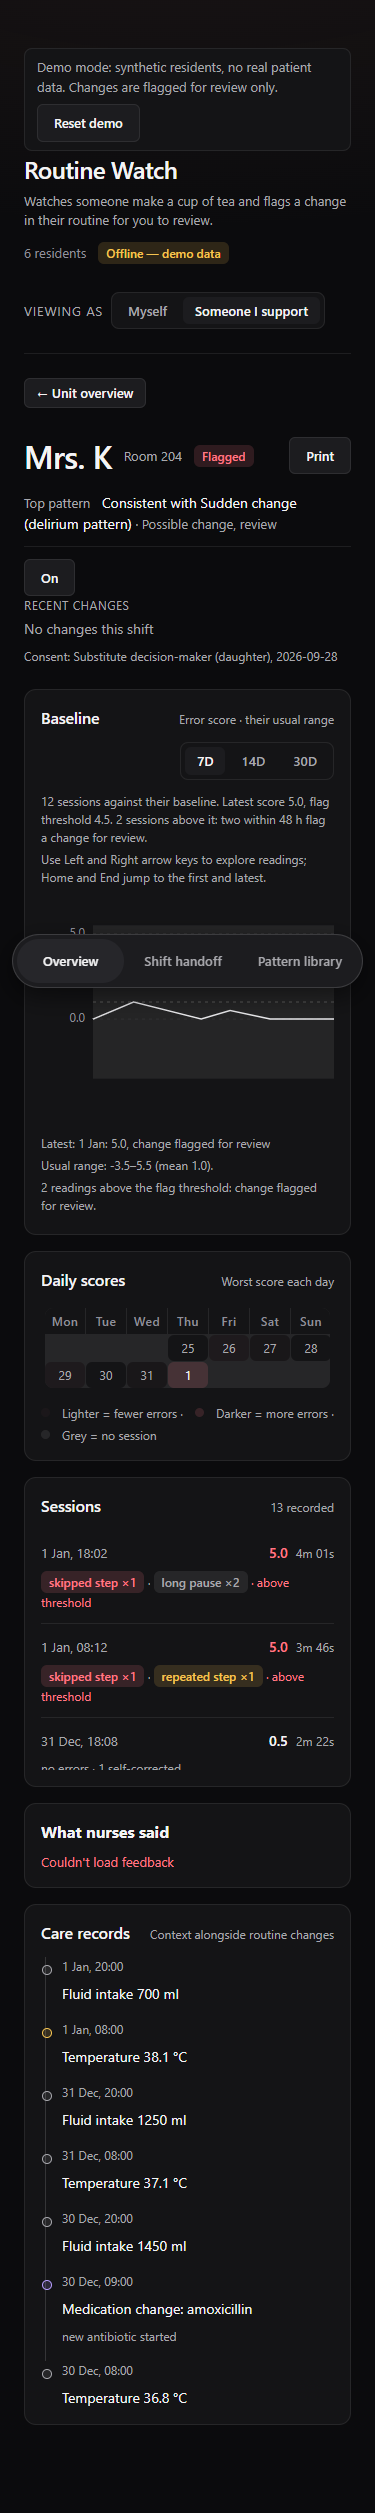
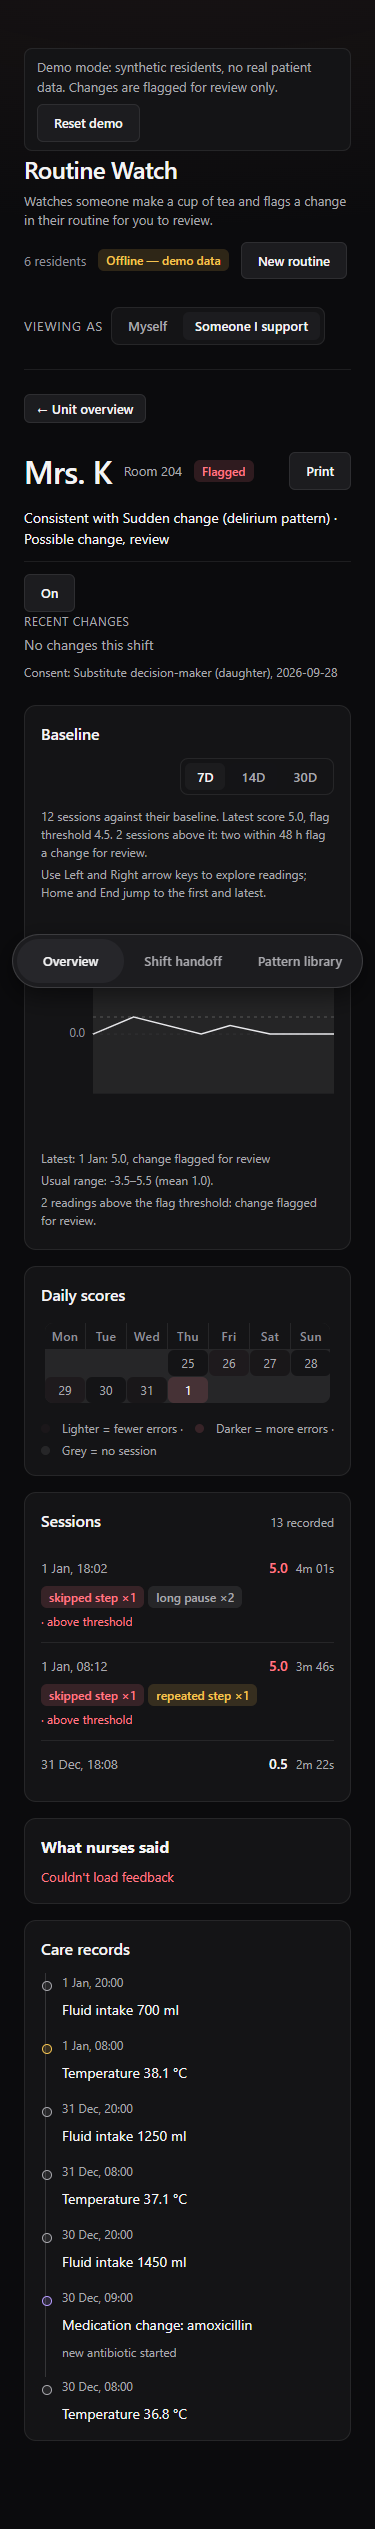
T404: Keep merged resident redesign within first-load budget

diff --git a/web/src/resident/SessionList.tsx b/web/src/resident/SessionList.tsx
@@ -6,8 +6,6 @@ import { ERROR_TYPE_LABEL, ERROR_TYPE_TONE } from '../ui/errorTypes.ts'
 import type { ErrorType } from '../contracts.ts'
 import './sessionList.css'
 
-const PILL_TONE = { red: 'negative', amber: 'watch', grey: 'neutral' } as const
-
 function time(ts: string): number {
   const parsed = Date.parse(ts)
   return Number.isNaN(parsed) ? 0 : parsed
@@ -41,21 +39,13 @@ export function SessionList({
         return (
           <li key={session.ts} className={above ? 'session-row session-row--above' : 'session-row'}>
             <span className="session-when">{formatDayTime(session.ts)}</span>
-            <span
-              className="session-score"
-              aria-label={score === undefined ? 'Not scored' : `Error score ${formatScore(score)}`}
-            >
-              {score === undefined ? '—' : formatScore(score)}
-            </span>
+            <span className="session-score">{score === undefined ? '—' : formatScore(score)}</span>
             <span className="session-detail">
               {session.assisted ? <Pill>assisted, not counted</Pill> : errors.length === 0 ? 'no errors' :
-                errors.map(([type, count], index) => (
-                  <span key={type}>
-                    {index > 0 && ' · '}
-                    <Pill tone={PILL_TONE[ERROR_TYPE_TONE[type as ErrorType]]}>
+                errors.map(([type, count]) => (
+                    <span key={type} className={`error-chip error-chip--${ERROR_TYPE_TONE[type as ErrorType]}`}>
                       {ERROR_TYPE_LABEL[type as ErrorType]} ×{count}
-                    </Pill>
-                  </span>
+                    </span>
                 ))}
               {session.self_corrected > 0 && (
                 <span className="session-note"> · {session.self_corrected} self-corrected</span>

diff --git a/web/src/resident/ResidentDetail.tsx b/web/src/resident/ResidentDetail.tsx
@@ -179,8 +179,7 @@ export function ResidentDetail({
           </div>
           {resident.top_pattern && (
             <p className="resident-detail__pattern">
-              <span>Top pattern</span> Consistent with {resident.top_pattern.name}
-              <span> · Possible change, review</span>
+              Consistent with {resident.top_pattern.name} · Possible change, review
             </p>
           )}
           <div className="resident-detail__monitoring">
@@ -222,15 +221,13 @@ export function ResidentDetail({
           <Card wide className="resident-detail__hero">
             <div className="section-header">
               <h2 className="section-header__title">Baseline</h2>
-              <span className="section-header__caption">Error score · their usual range</span>
             </div>
-            <BaselineChart key={resident.id} scores={resident.scores} baseline={resident.baseline} />
+            <BaselineChart scores={resident.scores} baseline={resident.baseline} />
           </Card>
 
           <Card>
             <div className="section-header">
               <h2 className="section-header__title">Daily scores</h2>
-              <span className="section-header__caption">Worst score each day</span>
             </div>
             {days.length === 0 ? (
               <EmptyState message="No scored sessions yet." />
@@ -264,7 +261,6 @@ export function ResidentDetail({
           <Card>
             <div className="section-header">
               <h2 className="section-header__title">Care records</h2>
-              <span className="section-header__caption">Context alongside routine changes</span>
             </div>
             <ContextTimeline records={resident.care_records} />
           </Card>

diff --git a/web/src/resident/ResidentDetail.test.tsx b/web/src/resident/ResidentDetail.test.tsx
@@ -59,11 +59,11 @@ describe('ResidentDetail', () => {
       scores={[]}
       threshold={4.5}
     />)
-    expect(container.querySelectorAll('.pill--negative')).toHaveLength(2)
-    expect(container.querySelectorAll('.pill--watch')).toHaveLength(2)
+    expect(container.querySelectorAll('.error-chip--red')).toHaveLength(2)
+    expect(container.querySelectorAll('.error-chip--amber')).toHaveLength(2)
     expect(screen.getByText('assisted, not counted')).toBeTruthy()
     expect(screen.getByText(/1 self-corrected/)).toBeTruthy()
-    expect(screen.getAllByLabelText('Not scored')).toHaveLength(2)
+    expect(screen.getAllByText('—')).toHaveLength(2)
   })
 
   it('marks medication changes and fever readings without tinting routine temperature readings', () => {
@@ -132,9 +132,8 @@ describe('ResidentDetail', () => {
     const rows = [...container.querySelectorAll('.session-row')]
     expect(rows[0].querySelector('.session-when')?.textContent).toBe('1 Jan, 18:02')
     expect(rows[0].querySelector('.session-score')?.textContent).toBe('5.0')
-    expect(rows[0].querySelector('.session-detail')?.textContent).toContain(
-      'skipped step ×1 · long pause ×2',
-    )
+    expect(within(rows[0] as HTMLElement).getByText('skipped step ×1')).toBeTruthy()
+    expect(within(rows[0] as HTMLElement).getByText('long pause ×2')).toBeTruthy()
     expect(rows[0].querySelector('.session-detail')?.textContent).toContain('above threshold')
     expect(rows[0].querySelector('.session-duration')?.textContent).toBe('4m 01s')
     expect(rows[0].className).toContain('session-row--above')

diff --git a/web/src/resident/SessionList.test.tsx b/web/src/resident/SessionList.test.tsx
@@ -25,8 +25,8 @@ describe('SessionList', () => {
     expect(rows).toHaveLength(2)
     expect(within(rows[0]).getByText('2 Jan, 18:03')).toBeTruthy()
     expect(within(rows[0]).getByText('5.0')).toBeTruthy()
-    expect(within(rows[0]).getByText('skipped step ×1').className).toContain('pill--negative')
-    expect(within(rows[0]).getByText('long pause ×2').className).toContain('pill--neutral')
+    expect(within(rows[0]).getByText('skipped step ×1').className).toContain('error-chip--red')
+    expect(within(rows[0]).getByText('long pause ×2').className).toContain('error-chip--grey')
     expect(within(rows[0]).getByText('2m 05s')).toBeTruthy()
     expect(rows[0].classList.contains('session-row--above')).toBe(true)
     expect(within(rows[1]).getByText('1 Jan, 08:12')).toBeTruthy()

diff --git a/web/src/resident/sessionList.css b/web/src/resident/sessionList.css
@@ -35,6 +35,10 @@
 }
 
 .resident-detail .session-detail {
+  display: flex;
+  flex-wrap: wrap;
+  align-items: baseline;
+  gap: var(--space-1);
   grid-column: 1 / -1;
   grid-row: 2;
   overflow-wrap: anywhere;
@@ -42,7 +46,8 @@
   font-size: var(--text-xs);
 }
 
-.resident-detail .session-detail .pill {
+.resident-detail .session-detail .pill,
+.resident-detail .session-detail .error-chip {
   white-space: normal;
 }
 @media (max-width: 480px) {

diff --git a/web/src/resident/resident.css b/web/src/resident/resident.css
@@ -23,15 +23,6 @@
   font-size: var(--text-md);
 }
 
-.resident-detail__pattern > span {
-  color: var(--text-secondary);
-  font-size: var(--text-sm);
-}
-
-.resident-detail__pattern > span:first-child {
-  margin-right: var(--space-2);
-}
-
 .resident-detail__monitoring-message {
   margin: 0;
   color: var(--status-flagged);
